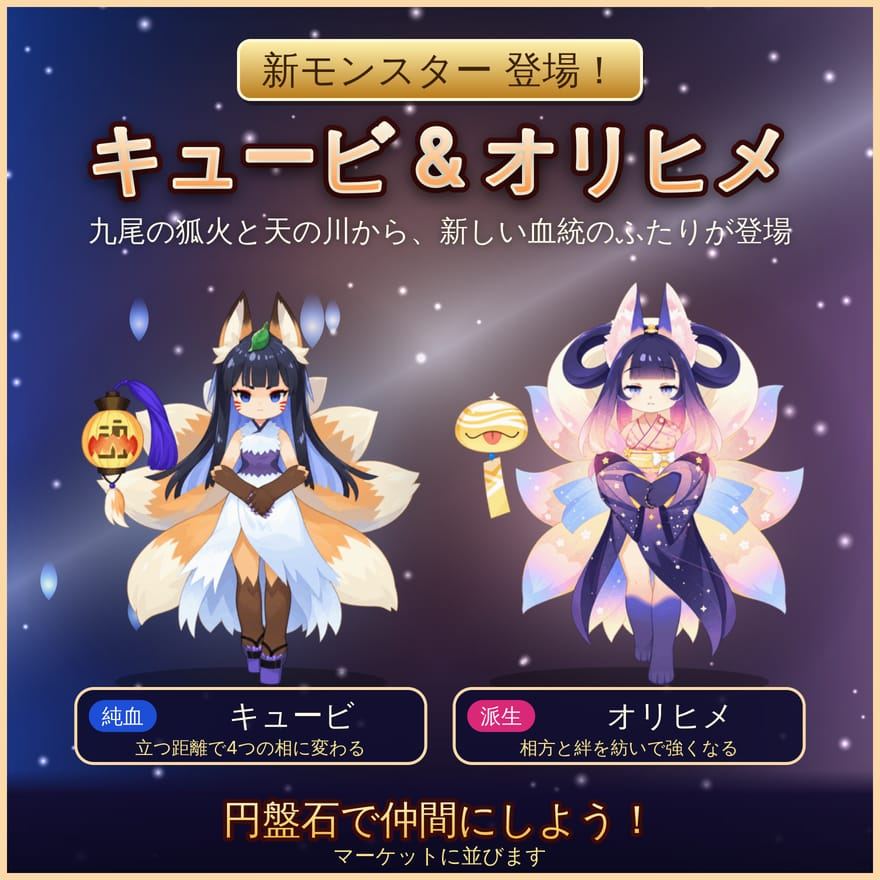
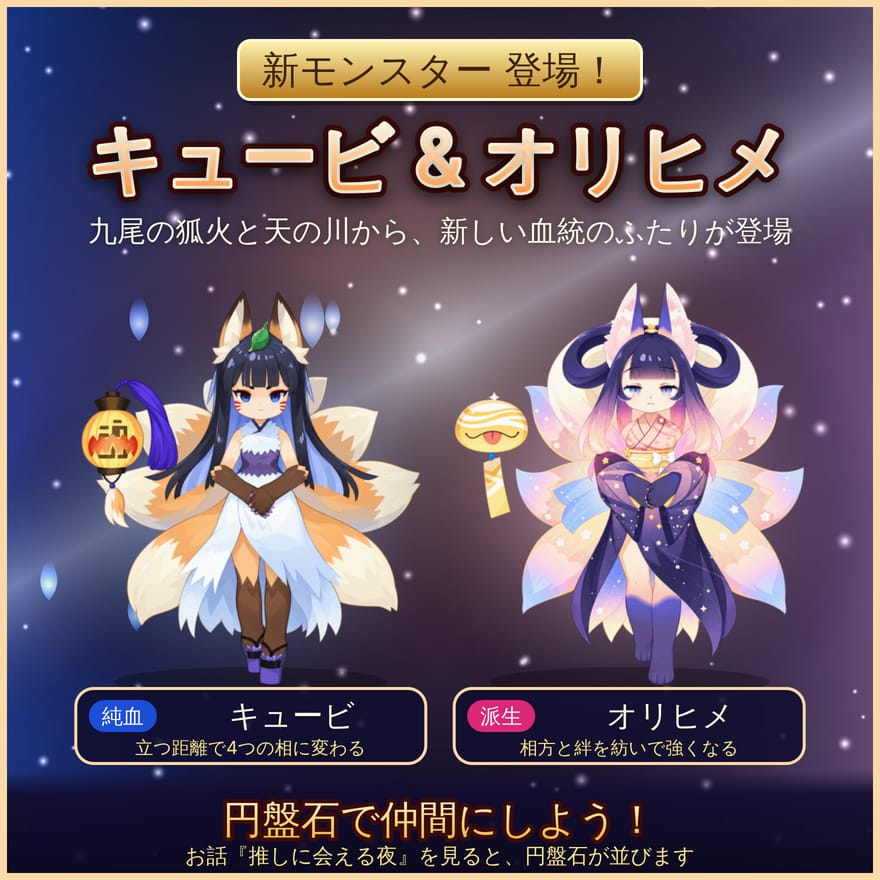
公開のお知らせの絵①の最下行を「お話『推しに会える夜』を見ると、円盤石が並びます」に・売り方はクラフトくんのPRに入ることをメモ
Claude-Session: https://claude.ai/code/session_01UuhN9L3PoQXeR6w3rggzQq

Changed region(s): [[0.2148, 0.9511, 0.7977, 1.0]]

diff --git a/tools/image/make-kyubi-orihime-release-notice.js b/tools/image/make-kyubi-orihime-release-notice.js
@@ -154,7 +154,7 @@ const keyVisual = async () => {
   x.save(); x.font = '78px MPB'; x.textAlign = 'center'; x.textBaseline = 'middle'; x.lineJoin = 'round'; x.lineWidth = 16; x.strokeStyle = '#3b0a0a';
   const msg = '円盤石で仲間にしよう！'; x.strokeText(msg, W / 2, 1640);
   const bt = x.createLinearGradient(0, 1600, 0, 1680); bt.addColorStop(0, '#fff6c2'); bt.addColorStop(1, '#f0b93a'); x.fillStyle = bt; x.fillText(msg, W / 2, 1640); x.restore();
-  x.save(); x.font = '42px MPB'; x.textAlign = 'center'; x.fillStyle = '#fde68a'; x.fillText(process.env.NOTICE_SUB || 'マーケットに並びます', W / 2, 1726); x.restore();
+  x.save(); x.font = '42px MPB'; x.textAlign = 'center'; x.fillStyle = '#fde68a'; x.fillText('お話『推しに会える夜』を見ると、円盤石が並びます', W / 2, 1726); x.restore();
   x.lineWidth = 14; x.strokeStyle = '#fcd9a8'; x.strokeRect(7, 7, W - 14, H - 14);
   await save(c, 'kyubi-orihime-release-notice.jpg', 880, 880);
 };

diff --git a/docs/progress/kyubi-orihime/release-progress.md b/docs/progress/kyubi-orihime/release-progress.md
@@ -31,9 +31,11 @@
   - 公開のPRでやること:
     - UPCOMING_MONSTER_DRAFTS から ALL_PLAYER_MONSTERS へ移す(draft を外す・atkMotion・trait/traitDesc・unique.effectDesc を入れる)。kyubi-orihime-traits-check の「下書きのまま」の確認を「公開した」へ替える
     - 説明文: 九尾四相・天河の契り・霊魂(統括部長へ送った案のまま)
-    - 円盤石の商品(#4019 の近日追加を外す)・顔アイコン/円盤石アイコンの販売(available)。クラフトくんの #4124(メロディー・クロミーの円盤石)はこのPRのマージ直後に入る
-    - お知らせの絵3枚を monster-hero/images/events/ へ(1枚目の最下行は円盤石の値段・並べ方に合わせて替える)
-    - 更新履歴(題「新モンスター『キュービ』『オリヒメ』が仲間になりました」・本文5行。メロディとクロミーの行はクラフトくんと合わせる。日時は入れるときの実時刻JST)・ヘルプの節・助手の告知
+    - マーケットは触らない(開発部クラフトくんの②のPR=ソラシドの印 に入る)。売り方は前の決めのまま(社長): お話「推しに会える夜」を見たら
+      ビートP交換所に各1,500ビートPで先に並ぶ・ダイヤショップの各150,000は近日追加のまま・顔アイコン/円盤石アイコンはブリーダーP交換所。
+      「お話を見たか」は setSorashidoJoinSeenForShop の値。当日の順: ①この公開PR → ②クラフトくんの印のPR → ③#4124 → ④カード部の確かめ(①〜③は15分の枠)
+    - お知らせの絵3枚を monster-hero/images/events/ へ(社長「この形で」。1枚目の最下行は「お話『推しに会える夜』を見ると、円盤石が並びます」)
+    - 更新履歴(題「新モンスター『キュービ』『オリヒメ』が仲間になりました」・本文5行。1行目は「九尾の妖狐キュービと、天の川の妖狐オリヒメが登場。助手ソラシドのお話『推しに会える夜』を見ると、マーケットに2体の円盤石が並びます」(社長「この文で」)。メロディとクロミーの行はクラフトくんと合わせる。日時は入れるときの実時刻JST)・ヘルプの節・助手の告知
     - ヘルプのタクティクスEXの表: supportKey の先(OrihimeSupport・焦がれ待つ天ノ河)も「共モンのとき」として並べる
     - 公開後に要らなくなるもの: デバッグの試す用の写し(draftPreviewMonsterList は ALL_PLAYER_MONSTERS にいる子を除くので、そのままでよい)
   - マージしたら、すぐクラフトくん(session_01VRYhgmPT7CS6iFeyRbpz1p)へ知らせる
